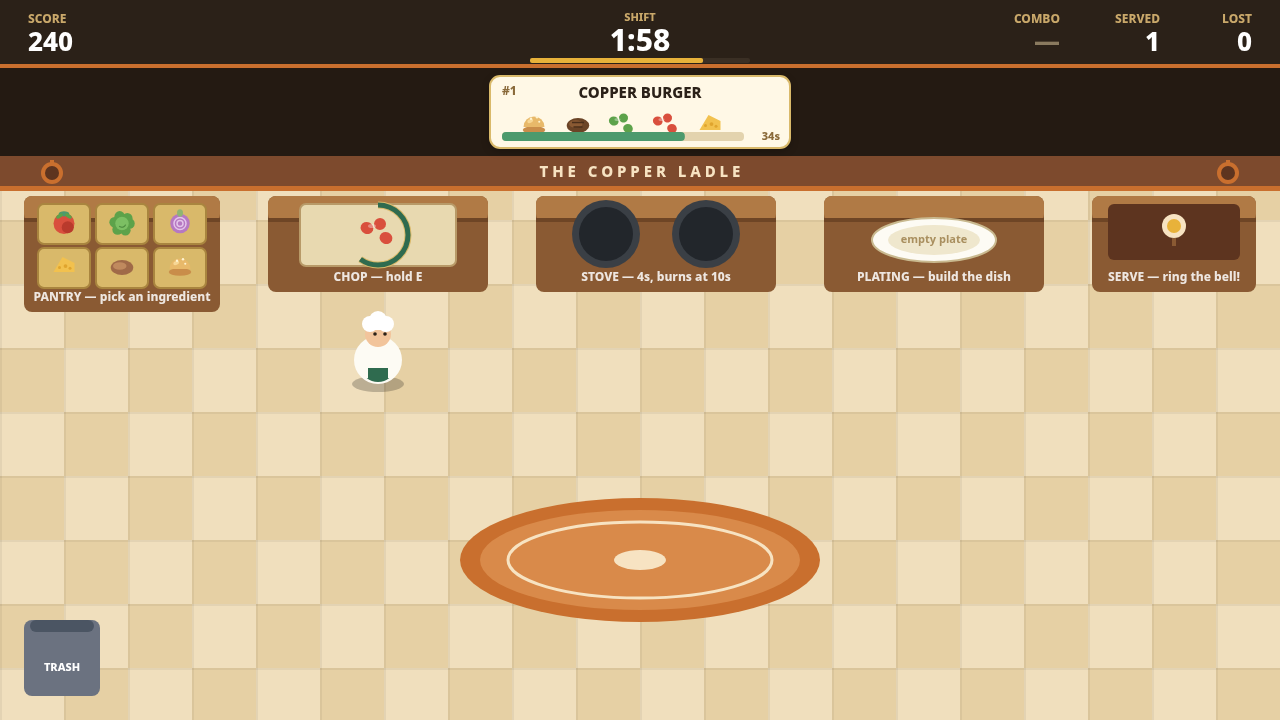
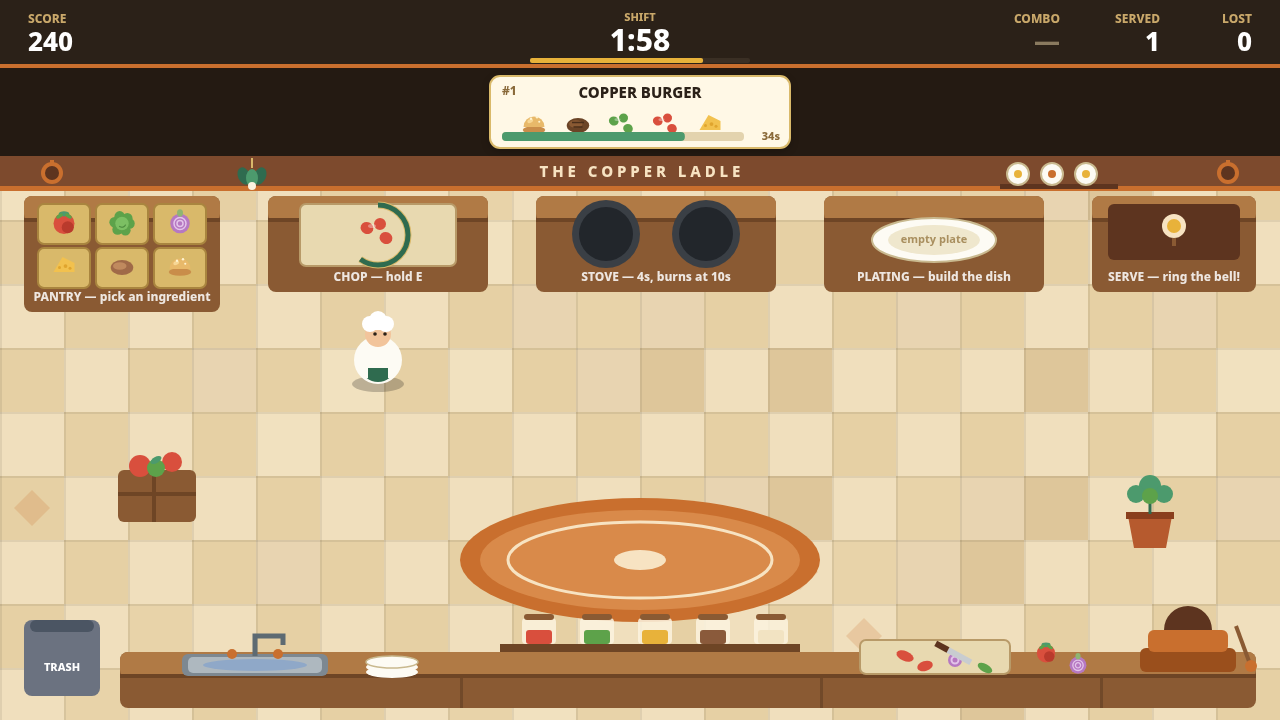
The Copper Ladle: visual density polish (v2)

diff --git a/game/src/render.js b/game/src/render.js
@@ -183,6 +183,143 @@ function drawCounter(ctx, st, label) {
   text(ctx, label, st.x + st.w / 2, st.y + st.h - 14, 12, 'rgba(255,255,255,0.85)', 800);
 }
 
+/** Bottom counter run along the south wall — decor only, no gameplay:
+ *  sink with taps, spice rack, prep board, stacked copper pots. */
+function drawSouthCounter(ctx) {
+  const x0 = 120, y0 = 652, w = 1136, h = 56;
+  ctx.fillStyle = P.counterSide;
+  rr(ctx, x0, y0, w, h, 8);
+  ctx.fill();
+  ctx.fillStyle = P.counterTop;
+  rr(ctx, x0, y0, w, 26, 8);
+  ctx.fill();
+  ctx.fillStyle = P.counterEdge;
+  ctx.fillRect(x0, y0 + 22, w, 4);
+  // Section dividers.
+  ctx.fillStyle = 'rgba(0,0,0,0.18)';
+  for (const dx of [340, 700, 980]) ctx.fillRect(x0 + dx, y0 + 26, 3, h - 26);
+
+  // Sink: steel basin inset in the counter top, gooseneck tap above it.
+  ctx.fillStyle = '#7d8891';
+  rr(ctx, 182, 654, 146, 22, 6);
+  ctx.fill();
+  ctx.fillStyle = '#aeb8bf';
+  rr(ctx, 188, 657, 134, 16, 5);
+  ctx.fill();
+  ctx.fillStyle = '#8fa8c8';
+  ctx.beginPath(); ctx.ellipse(255, 665, 52, 6, 0, 0, Math.PI * 2); ctx.fill();
+  ctx.strokeStyle = '#5d6a72';
+  ctx.lineWidth = 5;
+  ctx.beginPath(); ctx.moveTo(255, 656); ctx.lineTo(255, 636); ctx.lineTo(283, 636); ctx.lineTo(283, 645); ctx.stroke();
+  ctx.fillStyle = P.copper;
+  ctx.beginPath(); ctx.arc(232, 654, 5, 0, Math.PI * 2); ctx.fill();
+  ctx.beginPath(); ctx.arc(278, 654, 5, 0, Math.PI * 2); ctx.fill();
+  // Clean plates stacked beside the sink.
+  ctx.fillStyle = '#fdfbf4';
+  for (let i = 0; i < 3; i += 1) {
+    ctx.beginPath(); ctx.ellipse(392, 672 - i * 5, 26, 6, 0, 0, Math.PI * 2); ctx.fill();
+  }
+  ctx.strokeStyle = '#c9b98f';
+  ctx.lineWidth = 1.5;
+  ctx.beginPath(); ctx.ellipse(392, 662, 26, 6, 0, 0, Math.PI * 2); ctx.stroke();
+
+  // Spice rack: back plank with five little jars.
+  ctx.fillStyle = '#6e4525';
+  ctx.fillRect(500, 644, 300, 8);
+  const jarCols = ['#d94f3d', '#5da24a', '#e8b23a', '#8a5a3b', '#f2e3c2'];
+  jarCols.forEach((col, i) => {
+    const jx = 522 + i * 58;
+    ctx.fillStyle = 'rgba(251,243,223,0.85)';
+    rr(ctx, jx, 618, 34, 26, 4);
+    ctx.fill();
+    ctx.fillStyle = col;
+    rr(ctx, jx + 4, 630, 26, 14, 3);
+    ctx.fill();
+    ctx.fillStyle = '#8a5a33';
+    rr(ctx, jx + 2, 614, 30, 6, 3);
+    ctx.fill();
+  });
+
+  // Prep board: cutting board with chopped bits, a knife, whole veg beside it.
+  ctx.fillStyle = '#e8d9b0';
+  rr(ctx, 860, 640, 150, 34, 6);
+  ctx.fill();
+  ctx.strokeStyle = '#b89a68';
+  ctx.lineWidth = 2;
+  ctx.stroke();
+  ctx.fillStyle = '#d94f3d';
+  ctx.beginPath(); ctx.ellipse(905, 656, 9, 5, 0.4, 0, Math.PI * 2); ctx.fill();
+  ctx.beginPath(); ctx.ellipse(925, 666, 8, 5, -0.3, 0, Math.PI * 2); ctx.fill();
+  ctx.fillStyle = '#b678c2';
+  ctx.beginPath(); ctx.arc(955, 660, 7, 0, Math.PI * 2); ctx.fill();
+  ctx.strokeStyle = '#e3c4ea';
+  ctx.lineWidth = 2;
+  ctx.beginPath(); ctx.arc(955, 660, 3.5, 0, Math.PI * 2); ctx.stroke();
+  ctx.fillStyle = '#5da24a';
+  ctx.beginPath(); ctx.ellipse(985, 668, 8, 4, 0.5, 0, Math.PI * 2); ctx.fill();
+  // Knife lying across the board's corner.
+  ctx.save();
+  ctx.translate(948, 650);
+  ctx.rotate(0.5);
+  ctx.fillStyle = '#c8ccd0';
+  ctx.fillRect(0, -3, 26, 6);
+  ctx.fillStyle = '#5d341f';
+  ctx.fillRect(-14, -3, 14, 6);
+  ctx.restore();
+  drawFood(ctx, 'tomato', 1046, 652, 26, 'raw');
+  drawFood(ctx, 'onion', 1078, 664, 26, 'raw');
+
+  // Stacked copper pots + a ladle leaning on the end.
+  ctx.fillStyle = P.copperDark;
+  rr(ctx, 1140, 648, 96, 24, 6);
+  ctx.fill();
+  ctx.fillStyle = P.copper;
+  rr(ctx, 1148, 630, 80, 22, 6);
+  ctx.fill();
+  ctx.fillStyle = '#5d341f';
+  ctx.beginPath(); ctx.arc(1188, 630, 24, Math.PI, 0); ctx.fill();
+  ctx.strokeStyle = '#8a5a33';
+  ctx.lineWidth = 4;
+  ctx.beginPath(); ctx.moveTo(1236, 626); ctx.lineTo(1250, 664); ctx.stroke();
+  ctx.fillStyle = P.copper;
+  ctx.beginPath(); ctx.arc(1251, 666, 6, 0, Math.PI * 2); ctx.fill();
+}
+
+/** Floor-level props in the open middle band: a veg crate and a herb pot. */
+function drawFloorProps(ctx) {
+  // Wooden crate of vegetables, bottom-left of the rug.
+  ctx.fillStyle = '#8a5a33';
+  rr(ctx, 118, 470, 78, 52, 6);
+  ctx.fill();
+  ctx.fillStyle = '#6e4525';
+  ctx.fillRect(118, 492, 78, 4);
+  ctx.fillRect(152, 470, 4, 52);
+  ctx.fillStyle = '#d94f3d';
+  ctx.beginPath(); ctx.arc(140, 466, 11, 0, Math.PI * 2); ctx.fill();
+  ctx.beginPath(); ctx.arc(172, 462, 10, 0, Math.PI * 2); ctx.fill();
+  ctx.fillStyle = '#5da24a';
+  ctx.beginPath(); ctx.arc(156, 468, 9, 0, Math.PI * 2); ctx.fill();
+  ctx.fillStyle = '#4c9a6d';
+  ctx.beginPath(); ctx.ellipse(156, 460, 6, 3, -0.5, 0, Math.PI * 2); ctx.fill();
+
+  // Potted herb plant, bottom-right — clear of the serve flash text.
+  ctx.fillStyle = '#b65a2e';
+  ctx.beginPath(); ctx.moveTo(1128, 516); ctx.lineTo(1172, 516); ctx.lineTo(1166, 548); ctx.lineTo(1134, 548); ctx.closePath(); ctx.fill();
+  ctx.fillStyle = '#8a3f1d';
+  ctx.fillRect(1126, 512, 48, 7);
+  ctx.strokeStyle = '#2f6b4f';
+  ctx.lineWidth = 3;
+  ctx.beginPath(); ctx.moveTo(1150, 514); ctx.lineTo(1150, 492); ctx.stroke();
+  ctx.beginPath(); ctx.moveTo(1150, 500); ctx.lineTo(1138, 488); ctx.stroke();
+  ctx.beginPath(); ctx.moveTo(1150, 500); ctx.lineTo(1162, 488); ctx.stroke();
+  ctx.fillStyle = '#4c9a6d';
+  ctx.beginPath(); ctx.arc(1150, 486, 11, 0, Math.PI * 2); ctx.fill();
+  ctx.beginPath(); ctx.arc(1136, 494, 9, 0, Math.PI * 2); ctx.fill();
+  ctx.beginPath(); ctx.arc(1164, 494, 9, 0, Math.PI * 2); ctx.fill();
+  ctx.fillStyle = '#5da24a';
+  ctx.beginPath(); ctx.arc(1150, 496, 8, 0, Math.PI * 2); ctx.fill();
+}
+
 export function drawKitchen(ctx, kitchen, board, now) {
   const k = kitchen;
   ctx.save();
@@ -191,15 +328,39 @@ export function drawKitchen(ctx, kitchen, board, now) {
     const s = k.trauma * k.trauma * 7;
     ctx.translate((Math.random() * 2 - 1) * s, (Math.random() * 2 - 1) * s);
   }
-  // Floor: warm checker tiles.
+  // Floor: warm checker tiles with deterministic per-tile tint variation,
+  // so it reads as worn kitchen tile, not a flat checkerboard.
   const tile = 64;
+  const tileHash = (tx, ty) => {
+    let h = (tx * 73856093) ^ (ty * 19349663);
+    h = (h ^ (h >> 13)) >>> 0;
+    return h % 100;
+  };
   for (let ty = 0; ty < 12; ty += 1) {
     for (let tx = 0; tx < 20; tx += 1) {
       ctx.fillStyle = (tx + ty) % 2 === 0 ? P.floorA : P.floorB;
       ctx.fillRect(tx * tile, 156 + ty * tile, tile, tile);
+      const v = tileHash(tx, ty);
+      if (v < 14) {
+        ctx.fillStyle = 'rgba(255,246,220,0.10)';
+        ctx.fillRect(tx * tile, 156 + ty * tile, tile, tile);
+      } else if (v < 28) {
+        ctx.fillStyle = 'rgba(122,74,26,0.07)';
+        ctx.fillRect(tx * tile, 156 + ty * tile, tile, tile);
+      } else if (v === 97) {
+        // Rare accent tile: a faint copper diamond inlay.
+        ctx.fillStyle = 'rgba(201,111,46,0.20)';
+        ctx.beginPath();
+        ctx.moveTo(tx * tile + 32, 156 + ty * tile + 14);
+        ctx.lineTo(tx * tile + 50, 156 + ty * tile + 32);
+        ctx.lineTo(tx * tile + 32, 156 + ty * tile + 50);
+        ctx.lineTo(tx * tile + 14, 156 + ty * tile + 32);
+        ctx.closePath();
+        ctx.fill();
+      }
     }
   }
-  ctx.fillStyle = 'rgba(0,0,0,0.05)';
+  ctx.fillStyle = 'rgba(0,0,0,0.07)';
   for (let ty = 0; ty < 12; ty += 1) ctx.fillRect(0, 156 + ty * tile, W, 2);
   for (let tx = 0; tx < 20; tx += 1) ctx.fillRect(tx * tile, 156, 2, H - 156);
 
@@ -218,6 +379,29 @@ export function drawKitchen(ctx, kitchen, board, now) {
     ctx.fillStyle = P.copper;
     ctx.fillRect(px - 2, 160, 4, 6);
   }
+  // Hanging herb bundle, left of the title.
+  ctx.strokeStyle = '#d9b96a';
+  ctx.lineWidth = 2;
+  ctx.beginPath(); ctx.moveTo(252, 158); ctx.lineTo(252, 168); ctx.stroke();
+  ctx.fillStyle = '#2f6b4f';
+  ctx.beginPath(); ctx.ellipse(244, 176, 6, 9, -0.4, 0, Math.PI * 2); ctx.fill();
+  ctx.beginPath(); ctx.ellipse(260, 176, 6, 9, 0.4, 0, Math.PI * 2); ctx.fill();
+  ctx.fillStyle = '#4c9a6d';
+  ctx.beginPath(); ctx.ellipse(252, 178, 6, 9, 0, 0, Math.PI * 2); ctx.fill();
+  ctx.fillStyle = '#fbf3df';
+  ctx.beginPath(); ctx.arc(252, 186, 4, 0, Math.PI * 2); ctx.fill();
+  // Plate shelf, right of the title: three plates standing on a plank.
+  ctx.fillStyle = '#5d341f';
+  ctx.fillRect(1000, 184, 118, 5);
+  for (const [i, px] of [1018, 1052, 1086].entries()) {
+    ctx.fillStyle = '#fdfbf4';
+    ctx.beginPath(); ctx.arc(px, 174, 11, 0, Math.PI * 2); ctx.fill();
+    ctx.strokeStyle = '#c9b98f';
+    ctx.lineWidth = 2;
+    ctx.stroke();
+    ctx.fillStyle = i === 1 ? P.copper : '#e8b23a';
+    ctx.beginPath(); ctx.arc(px, 174, 4, 0, Math.PI * 2); ctx.fill();
+  }
 
   // A woven rug in the middle of the floor — the chef walks over it, as one does.
   ctx.fillStyle = '#c96f2e';
@@ -229,6 +413,10 @@ export function drawKitchen(ctx, kitchen, board, now) {
   ctx.beginPath(); ctx.ellipse(640, 560, 132, 38, 0, 0, Math.PI * 2); ctx.stroke();
   ctx.fillStyle = '#f7e3c2';
   ctx.beginPath(); ctx.ellipse(640, 560, 26, 10, 0, 0, Math.PI * 2); ctx.fill();
+
+  // South counter run + floor props: decor only, filling the bottom band.
+  drawSouthCounter(ctx);
+  drawFloorProps(ctx);
 
   // Pantry crates.
   drawCounter(ctx, STATIONS.pantry, 'PANTRY — pick an ingredient');
